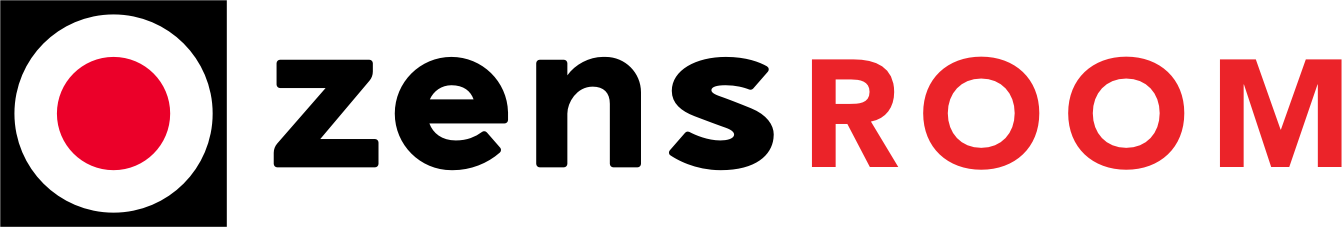
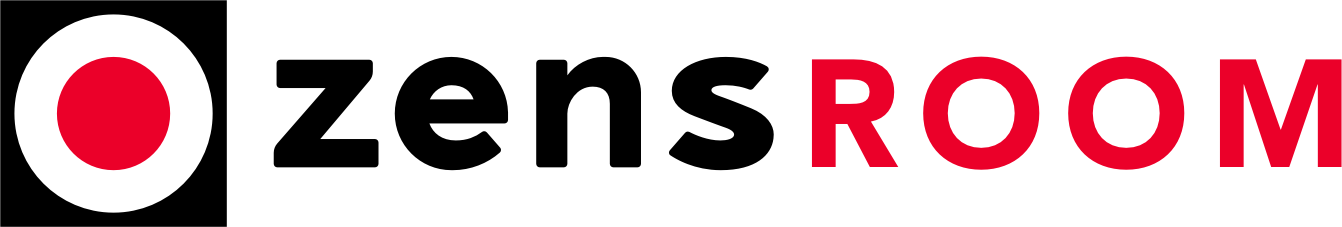
change image

Changed region(s): [[0.5805, 0.2467, 1.0, 0.7401]]

diff --git a/src/layouts/index.js b/src/layouts/index.js
@@ -6,10 +6,10 @@ import Helmet from 'react-helmet'
 import './index.css'
 import './home.css'
 
-import airbnbImage from '../images/airbnb-3.jpg'; // Tell Webpack this JS file uses this image
+import image from '../images/rooms/_MG_1222.jpg'; // Tell Webpack this JS file uses this image
 
 const TemplateWrapper = ({ children }) => (
-  <div className="wrapper" style={{backgroundImage: `url(${airbnbImage})`}}>
+  <div className="wrapper" style={{backgroundImage: `url(${image})`}}>
     <Helmet
       title="ZensRoom: Medium-term rentals for visitors, students, and business travellers"
       meta={[

diff --git a/src/layouts/home.css b/src/layouts/home.css
@@ -11,7 +11,7 @@ html, body{
 }
 
 a{
-  color: #F4364C;
+  color: #EB0029;
 }
 
 .home{
